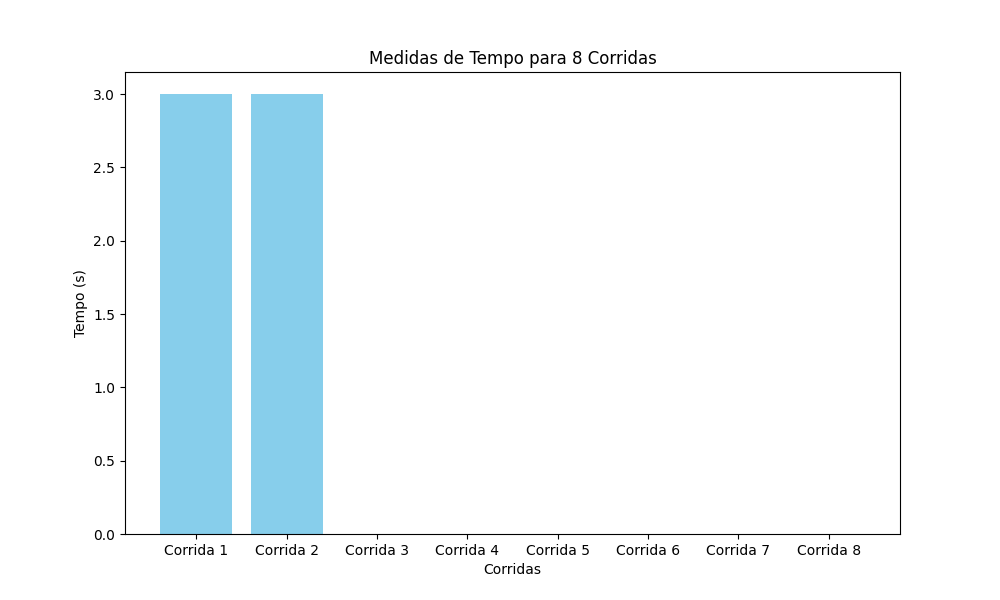
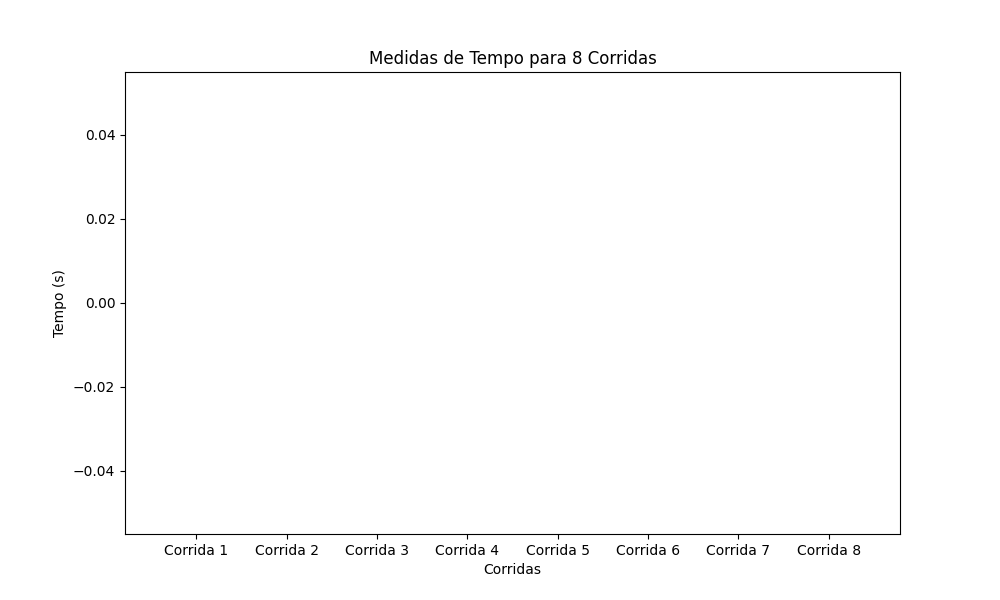
Agora o código continua se der error ao ler o arquivo do totem.

diff --git a/widget.py b/widget.py
@@ -24,6 +24,7 @@ from tkinter import filedialog
 from docx.shared import Inches
 from docx.enum.shape import WD_INLINE_SHAPE
 from openpyxl.styles import Alignment,Border, Side
+from ast import literal_eval
 
 class Experimento():
     def __init__(self,nome,id):
@@ -237,7 +238,12 @@ class Widget(QWidget):
             # Processar os dados
             dicionario = {}
             for linha in linhas:
-                id_totem, id_pessoa, btn, time = map(int, linha.split(","))
+                try:
+                    id_totem, id_pessoa, btn, time = map(int, linha.split(","))
+                except ValueError as e:
+                    print(f"Erro ao processar a linha: {linha}. Detalhes do erro: {e}")
+                    # Continue a execução ignorando essa linha ou lidando com ela de outra forma
+                    continue
 
                 if id_totem in self.dicionario_exercicios["Corrida"]:
                     id_totem = max(self.dicionario_exercicios["Corrida"])
@@ -404,8 +410,7 @@ class Widget(QWidget):
         data = self.ui.calendarWidget.selectedDate().toString('dd/MM/yyyy')
 
         cursor.execute('''
-        SELECT e.Data, e.Corrida1, e.Corrida2, e.Corrida3, e.Corrida4, e.Corrida5,\
-        e.Corrida6, e.Corrida7, e.Corrida8, e.Burpee, e.Lunge, e.Farmer_Walk,\
+        SELECT e.Data, e.Corrida, e.Burpee, e.Lunge, e.Farmer_Walk,\
         e.Abdominal, e.Jump_Squat, e.Medball_Alto, e.Medball_Solo, e.Terra_Remada
         from Experimentos e
         join Pessoas p ON e.ID_Pessoa = p.ID_Pessoa
@@ -421,7 +426,6 @@ class Widget(QWidget):
             #Medball_Solo, Terra_Remada = resultados
             print(f"Dado encontrado para {nome} na data {data} com sucesso.")
             resultados = resultados[1:len(resultados)]
-
             # Abrindo o arquivo modelo
             doc = Document('Relatorio_dia_modelo.docx')
 
@@ -440,7 +444,8 @@ class Widget(QWidget):
 
             # Configurar o gráfico
             plt.figure(figsize=(10, 6))  # Define o tamanho do gráfico
-            tempos = resultados[0:8]
+            tempos = literal_eval(resultados[0])
+            print(tempos)
             plt.bar(rotulos, tempos, color='skyblue')  # Gráfico de barras com cor personalizada
 
             # Adicionar título e rótulos dos eixos
@@ -467,13 +472,14 @@ class Widget(QWidget):
             "tempo.medball.solo", "tempo.terra.remada"]
             for paragraph in doc.paragraphs:
                 for tempo, exercicio in zip(resultados,exercicios):
+                    print(tempo)
                     if(exercicio in paragraph.text):
-                        paragraph.text = paragraph.text.replace(exercicio,str(tempo))
+                        paragraph.text = paragraph.text.replace(exercicio,str(tempo[0]))
 
 
 
             # Atualizando o tempo total
-            tempo_total = sum(resultados)
+            tempo_total = 2605#sum(resultados)
             for paragraph in doc.paragraphs:
                 if("tempo.total" in paragraph.text):
                     paragraph.text = paragraph.text.replace("tempo.total",str(tempo_total))
